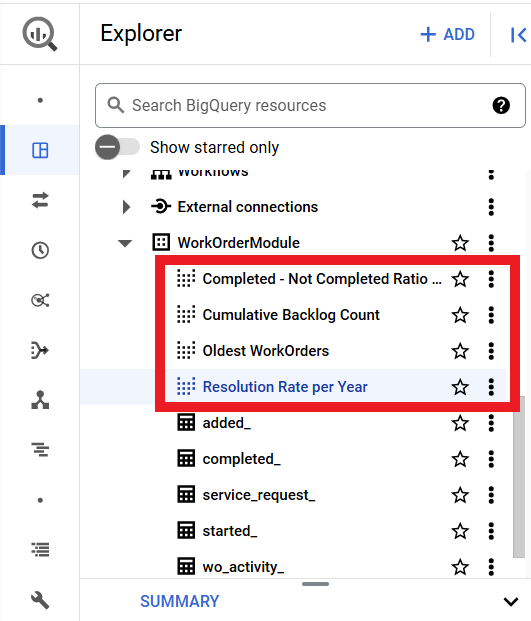
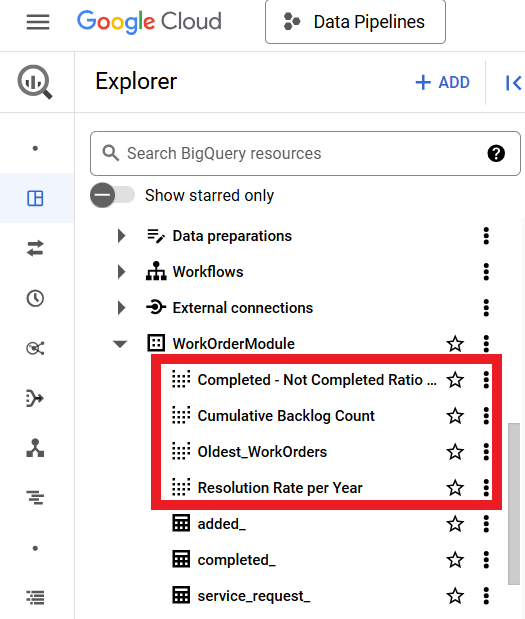
Updates

diff --git a/6. Mage ETL/extract_backlog.py b/6. Mage ETL/extract_backlog.py
@@ -15,7 +15,7 @@ def load_data_from_big_query(*args, **kwargs):
 
     Docs: https://docs.mage.ai/design/data-loading#bigquery
     """
-    query = 'SELECT * FROM `data-pipelines-437522.WorkOrderModule.Backlog`'
+    query = 'SELECT * FROM `data-pipelines-437522.WorkOrderModule.Oldest_WorkOrders`'
     
     config_path = path.join(get_repo_path(), 'io_config.yaml')
     config_profile = 'default'

diff --git a/README.md b/README.md
@@ -574,62 +574,14 @@ Once the export is done we can verify the results in HeidiSQL for the database a
 ![bigquery_5](https://github.com/OlaOlagunju/GCP_Mage_Data_Pipeline/blob/main/8.%20Images/bigquery_5.png)
 
 
-### Extracting Backlog Data from BigQuery using Mage
-In this step, I'll create another Mage pipeline to extract all the backlog work orders. I define backlog as work orders that have not been completed in over 3 years. Inside this new pipeline, I'll create a single data loader block to extract the Backlog data from BigQuery. Once I extract them, I'll save them to the VM.
-
-![mage_pipeline_11](https://github.com/OlaOlagunju/GCP_Mage_Data_Pipeline/blob/main/8.%20Images/mage_pipeline_11.png)
-
-![mage_pipeline_12](https://github.com/OlaOlagunju/GCP_Mage_Data_Pipeline/blob/main/8.%20Images/mage_pipeline_12.png)
-
-Here's a snippet of the data loader block in Mage.
-
-    @data_loader
-    def load_data_from_big_query(*args, **kwargs):
-        """
-        Extracting data from the BigQuery Data Warehouse.
-        Configuration settings are in 'io_config.yaml' which is in mage server.
-
-        Docs: https://docs.mage.ai/design/data-loading#bigquery
-        """
-        query = 'SELECT * FROM `data-pipelines-437522.WorkOrderModule.Backlog`'
-        
-        config_path = path.join(get_repo_path(), 'io_config.yaml')
-        config_profile = 'default'
-        backlog = BigQuery.with_config(ConfigFileLoader(config_path, config_profile)).load(query)
-        if not backlog.empty:
-            backlog.to_csv('/home/src/backlog.csv')
-        
-        return backlog
-
-View the full source code for this step [here](https://github.com/OlajideOlagunju/GCP_Mage_Data_Pipeline/blob/main/6.%20Mage%20ETL/extract_backlog.py).
-
-I can verify the Work Order Backlog list is saved on the VM as seen below:
-
-![compute_engine_8](https://github.com/OlaOlagunju/GCP_Mage_Data_Pipeline/blob/main/8.%20Images/compute_engine_8.png)
-
-![backlog_list](https://github.com/OlaOlagunju/GCP_Mage_Data_Pipeline/blob/main/8.%20Images/backlog_list.png)
-
-
 # Mage Data Orchestration Summary
-A wholistic view of the ETL pipeline is shown below. The 
+A wholistic view of the ETL pipeline is shown below. In the Extract (E) step, the source data is extracted from Cloud storage on GCP, then the Highest IDs for the tables are gotten from the MariaDB database. In the Transform (T) step, the data is cleaned, and processed to give dimension and fact tables. This data is then taken to the final stage which is the Load (L) step, where the data is loaded to MariaDB and the BigQuery data warehouse.
 
 ![mage_pipeline_3](https://github.com/OlaOlagunju/GCP_Mage_Data_Pipeline/blob/main/8.%20Images/mage_pipeline_3.png)
 
-![mage_pipeline_6](https://github.com/OlaOlagunju/GCP_Mage_Data_Pipeline/blob/main/8.%20Images/mage_pipeline_6.png)
 
-![mage_pipeline_7](https://github.com/OlaOlagunju/GCP_Mage_Data_Pipeline/blob/main/8.%20Images/mage_pipeline_7.png)
-
-![mage_pipeline_8](https://github.com/OlaOlagunju/GCP_Mage_Data_Pipeline/blob/main/8.%20Images/mage_pipeline_8.png)
-
-![mage_pipeline_9](https://github.com/OlaOlagunju/GCP_Mage_Data_Pipeline/blob/main/8.%20Images/mage_pipeline_9.png)
-
-![mage_pipeline_10](https://github.com/OlaOlagunju/GCP_Mage_Data_Pipeline/blob/main/8.%20Images/mage_pipeline_10.png)
-
-![mage_pipeline_13](https://github.com/OlaOlagunju/GCP_Mage_Data_Pipeline/blob/main/8.%20Images/mage_pipeline_13.png)
-
-
-## Create Views on BigQuery
-I'll run a few queries to get the:
+## Creating Views on BigQuery
+In Bigquery, I'll run a few queries to get the:
 - Resolution rate of Work Orders
 - Oldest Work Orders (Backlog)
 - Cumulative Backlog Count
@@ -654,6 +606,57 @@ Next, I'll save each query as a view in BigQuery.
 ![bigquery_6](https://github.com/OlaOlagunju/GCP_Mage_Data_Pipeline/blob/main/8.%20Images/bigquery_6.png)
 
 ![bigquery_7](https://github.com/OlaOlagunju/GCP_Mage_Data_Pipeline/blob/main/8.%20Images/bigquery_7.png)
+
+
+## Extracting Backlog Data from BigQuery using Mage
+In this step, I'll create another Mage pipeline to extract all the backlog work orders. I define backlog as work orders that have not been completed in over 3 years. Inside this new pipeline, I'll create a single data loader block to extract the Backlog data from BigQuery. Once I extract them, I'll save them to the VM.
+
+![mage_pipeline_11](https://github.com/OlaOlagunju/GCP_Mage_Data_Pipeline/blob/main/8.%20Images/mage_pipeline_11.png)
+
+![mage_pipeline_12](https://github.com/OlaOlagunju/GCP_Mage_Data_Pipeline/blob/main/8.%20Images/mage_pipeline_12.png)
+
+Here's a snippet of the data loader block in Mage. The block will extract the data from the 'Oldest_WorkOrders' View in BigQuery and then save to the VM.
+
+    @data_loader
+    def load_data_from_big_query(*args, **kwargs):
+        """
+        Extracting data from the BigQuery Data Warehouse.
+        Configuration settings are in 'io_config.yaml' which is in mage server.
+
+        Docs: https://docs.mage.ai/design/data-loading#bigquery
+        """
+        query = 'SELECT * FROM `data-pipelines-437522.WorkOrderModule.Oldest_WorkOrders`'
+        
+        config_path = path.join(get_repo_path(), 'io_config.yaml')
+        config_profile = 'default'
+        backlog = BigQuery.with_config(ConfigFileLoader(config_path, config_profile)).load(query)
+        if not backlog.empty:
+            backlog.to_csv('/home/src/backlog.csv')
+        
+        return backlog
+
+View the full source code for this step [here](https://github.com/OlajideOlagunju/GCP_Mage_Data_Pipeline/blob/main/6.%20Mage%20ETL/extract_backlog.py).
+
+I can verify the Work Order Backlog list is saved on the VM as seen below:
+
+![compute_engine_8](https://github.com/OlaOlagunju/GCP_Mage_Data_Pipeline/blob/main/8.%20Images/compute_engine_8.png)
+
+![backlog_list](https://github.com/OlaOlagunju/GCP_Mage_Data_Pipeline/blob/main/8.%20Images/backlog_list.png)
+
+
+## Scheduling Pipeline Runs via Mage Triggers
+
+![mage_pipeline_6](https://github.com/OlaOlagunju/GCP_Mage_Data_Pipeline/blob/main/8.%20Images/mage_pipeline_6.png)
+
+![mage_pipeline_7](https://github.com/OlaOlagunju/GCP_Mage_Data_Pipeline/blob/main/8.%20Images/mage_pipeline_7.png)
+
+![mage_pipeline_8](https://github.com/OlaOlagunju/GCP_Mage_Data_Pipeline/blob/main/8.%20Images/mage_pipeline_8.png)
+
+![mage_pipeline_9](https://github.com/OlaOlagunju/GCP_Mage_Data_Pipeline/blob/main/8.%20Images/mage_pipeline_9.png)
+
+![mage_pipeline_10](https://github.com/OlaOlagunju/GCP_Mage_Data_Pipeline/blob/main/8.%20Images/mage_pipeline_10.png)
+
+![mage_pipeline_13](https://github.com/OlaOlagunju/GCP_Mage_Data_Pipeline/blob/main/8.%20Images/mage_pipeline_13.png)
 
 
 # Data Viz
